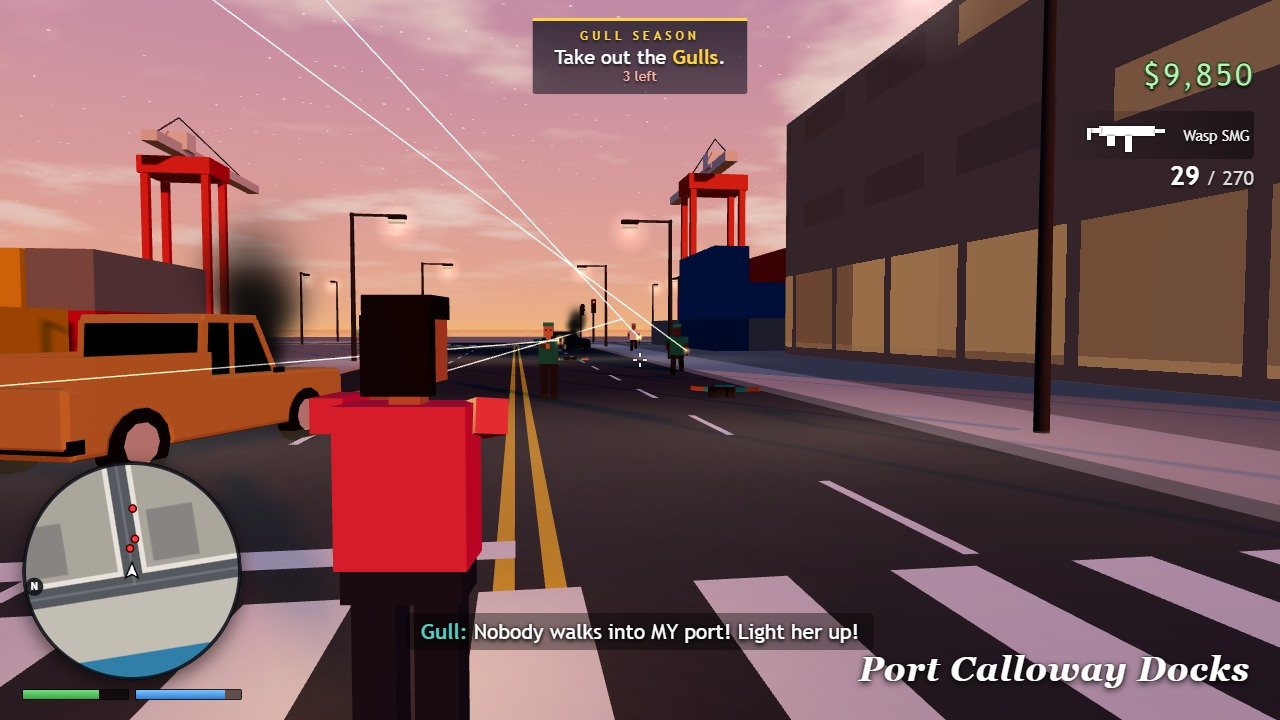
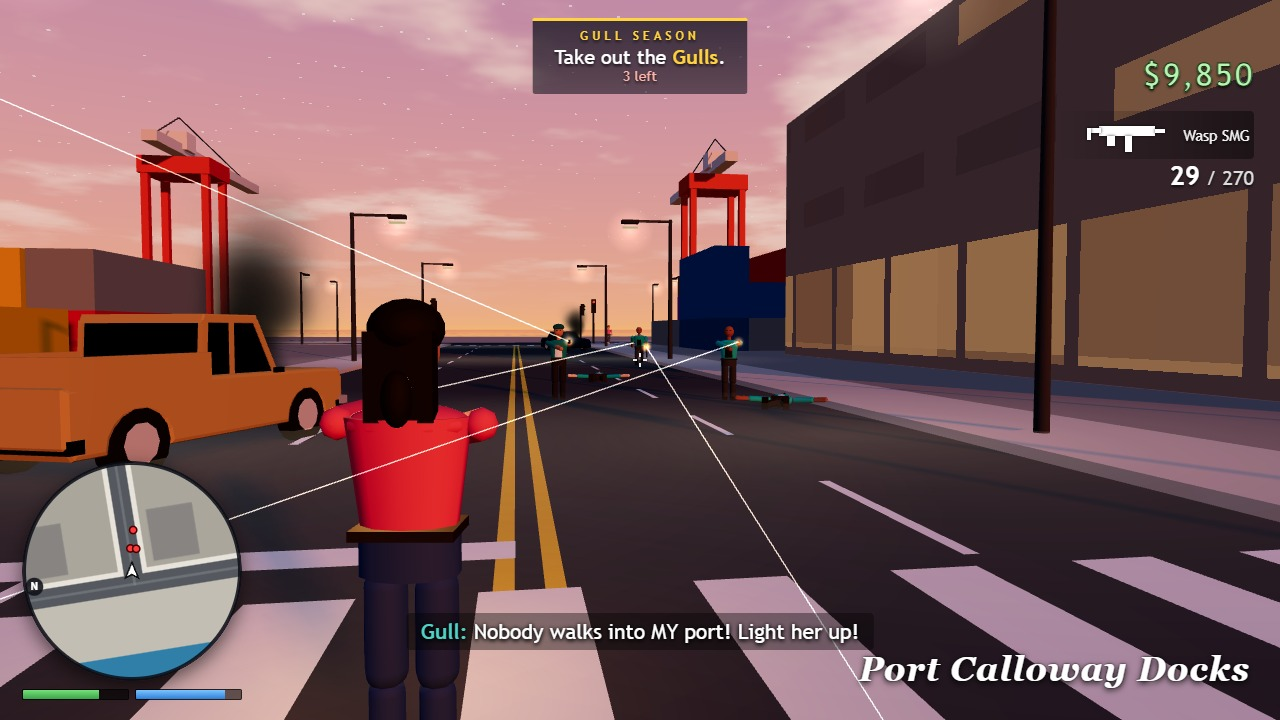
Fix stale screenshot capture, title camera framing, helicopter light, damage balance

diff --git a/game/src/shots/screenshotScenes.js b/game/src/shots/screenshotScenes.js
@@ -41,7 +41,7 @@ function chase(game, stepDt) {
   game.player.selectWeapon('smg');
   game.player.armor = 60;
   game.player.health = 78;
-  game.tod.state.hour = 19.05;
+  game.tod.state.hour = Number(new URLSearchParams(location.search).get('hour') ?? 19.3);
   const car = game.vehicleSystem.spawn('vento', 30, 298.1, -Math.PI / 2, 0xffd400);
   game.controller.enterVehicle(car);
   car.vx = -28;
@@ -202,6 +202,7 @@ function mapScreen(game) {
 function title(game) {
   game.flow.showTitle();
   game.tod.state.hour = 18.75;
+  game.flow.setTitleTime(Number(new URLSearchParams(location.search).get('t') ?? 9));
 }
 
 const SCENES = { chase, onfoot: onFoot, shootout, map: mapScreen, title };

diff --git a/game/src/systems/vehicleEffects.js b/game/src/systems/vehicleEffects.js
@@ -49,8 +49,13 @@ export function createVehicleEffects(game) {
         for (const s of [-1, 1]) effects.tyreSmoke(v.position.x - f.x * back + rx * s * 0.8, v.position.z - f.z * back + rz * s * 0.8);
       }
     }
-    // Player headlights.
+    // Warn when the player's car is about to blow.
     const pv = game.player.vehicle;
+    if (pv && pv.fireTimer > 0 && !pv.destroyed && !pv.warned) {
+      pv.warned = true;
+      game.ui?.notify('Your car is <span class="hl">on fire</span>! Press <b>F</b> to get out!', 4);
+    }
+    // Player headlights.
     const night = game.tod.state.night;
     if (pv && night > 0.3 && !pv.destroyed) {
       pv.headlights = true;

diff --git a/game/src/systems/npcCombat.js b/game/src/systems/npcCombat.js
@@ -78,9 +78,9 @@ export function createNpcCombat(game) {
       game.effects.tracer(hand.x, hand.y, hand.z, ex, ey, ez);
       if (target === game.player) {
         if (game.player.vehicle) {
-          game.player.vehicle.damage(damage * 2, events, null);
+          game.player.vehicle.damage(damage * 0.9, events, null);
           game.effects.impactSparks(ex, ey, ez);
-          if (rng.chance(0.3)) game.player.takeDamage(damage * 0.5);
+          if (rng.chance(0.25)) game.player.takeDamage(damage * 0.4);
         } else {
           game.effects.blood(ex, ey, ez);
           game.player.takeDamage(damage);

diff --git a/game/src/entities/vehicle.js b/game/src/entities/vehicle.js
@@ -174,7 +174,7 @@ export class Vehicle {
         // A glancing hit at the front turns the car away from the wall.
         this.yawRate += (k === 0 ? 1 : -1) * (res.nx * fz - res.nz * fx) * impact * 0.05;
         if (impact > 5) {
-          this.damage((impact - 5) * (impact - 5) * 0.75, events, this.driver === 'player' ? 'player-crash' : null);
+          this.damage((impact - 6) * (impact - 6) * 0.45, events, this.driver === 'player' ? 'player-crash' : null);
           events.emit('vehicleImpact', { vehicle: this, impact, x: circle.x, z: circle.z });
         }
       }

diff --git a/game/src/entities/helicopter.js b/game/src/entities/helicopter.js
@@ -103,7 +103,7 @@ export class Helicopter {
     this.spotX += (lx - this.spotX) * damp(1.6, dt);
     this.spotZ += (lz - this.spotZ) * damp(1.6, dt);
     this.spot.target.position.set(this.spotX, 0, this.spotZ);
-    this.spot.intensity = night * 900;
+    this.spot.intensity = night * 260;
     const bx = this.spotX - this.position.x;
     const bz = this.spotZ - this.position.z;
     const by = -this.position.y;

diff --git a/game/src/core/gameFlow.js b/game/src/core/gameFlow.js
@@ -136,6 +136,10 @@ export function createGameFlow(game) {
       game.tod.state.hour = 18.7;
       titleTime = 0;
     },
+    /** Jump the title flight to a moment (seconds along the path). */
+    setTitleTime(t) {
+      titleTime = t;
+    },
     /** Cinematic camera for the title screen. */
     titleCamera(dt) {
       titleTime += dt;
